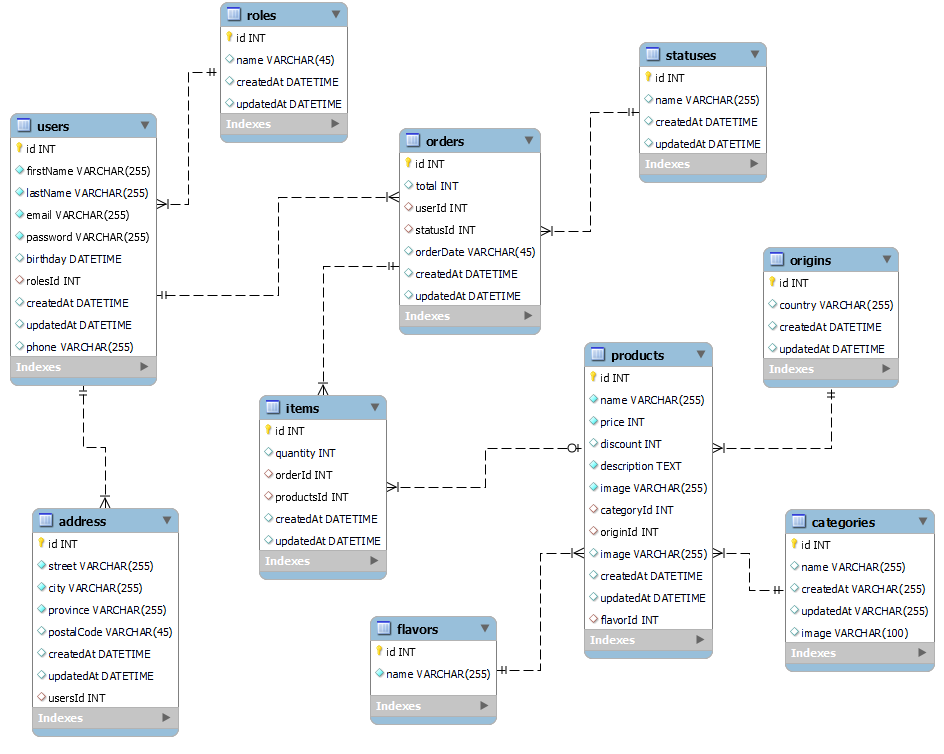
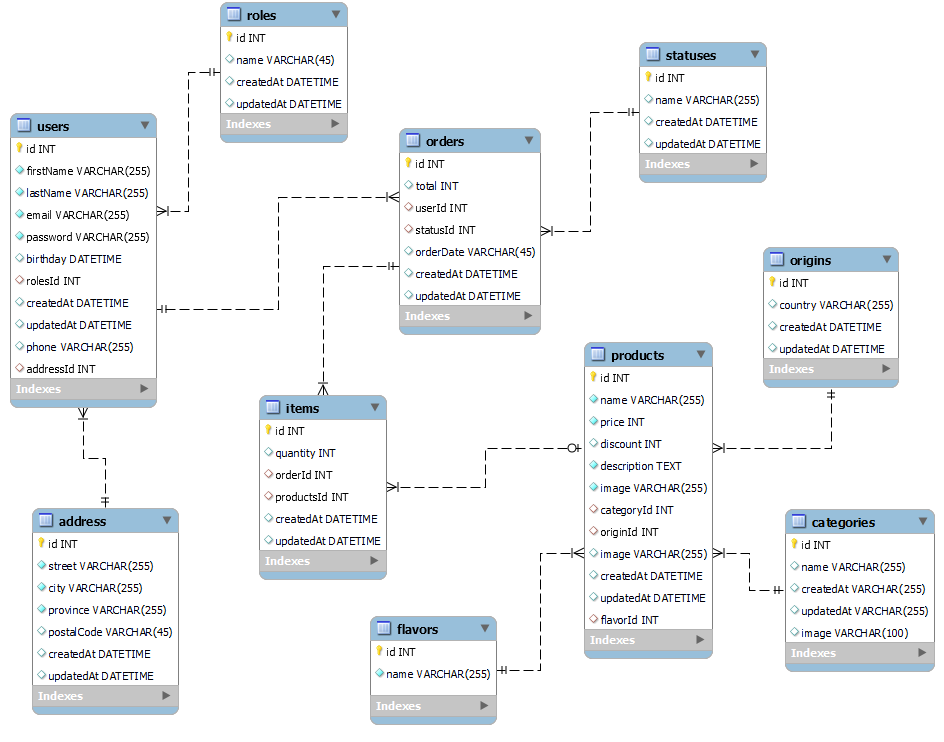
actualización de DER y se sube tabla migrate address

diff --git a/src/database/migrations/20240219214401-create-address.js b/src/database/migrations/20240219214401-create-address.js
@@ -1,0 +1,37 @@
+'use strict';
+/** @type {import('sequelize-cli').Migration} */
+module.exports = {
+  async up(queryInterface, Sequelize) {
+    await queryInterface.createTable('addresses', {
+      id: {
+        allowNull: false,
+        autoIncrement: true,
+        primaryKey: true,
+        type: Sequelize.INTEGER
+      },
+      street: {
+        type: Sequelize.STRING
+      },
+      city: {
+        type: Sequelize.STRING
+      },
+      province: {
+        type: Sequelize.STRING
+      },
+      postalCode: {
+        type: Sequelize.STRING
+      },
+      createdAt: {
+        allowNull: false,
+        type: Sequelize.DATE
+      },
+      updatedAt: {
+        allowNull: false,
+        type: Sequelize.DATE
+      }
+    });
+  },
+  async down(queryInterface, Sequelize) {
+    await queryInterface.dropTable('addresses');
+  }
+};

diff --git a/src/database/models/address.js b/src/database/models/address.js
@@ -1,0 +1,26 @@
+'use strict';
+const {
+  Model
+} = require('sequelize');
+module.exports = (sequelize, DataTypes) => {
+  class address extends Model {
+    /**
+     * Helper method for defining associations.
+     * This method is not a part of Sequelize lifecycle.
+     * The `models/index` file will call this method automatically.
+     */
+    static associate(models) {
+      // define association here
+    }
+  }
+  address.init({
+    street: DataTypes.STRING,
+    city: DataTypes.STRING,
+    province: DataTypes.STRING,
+    postalCode: DataTypes.STRING
+  }, {
+    sequelize,
+    modelName: 'address',
+  });
+  return address;
+};
